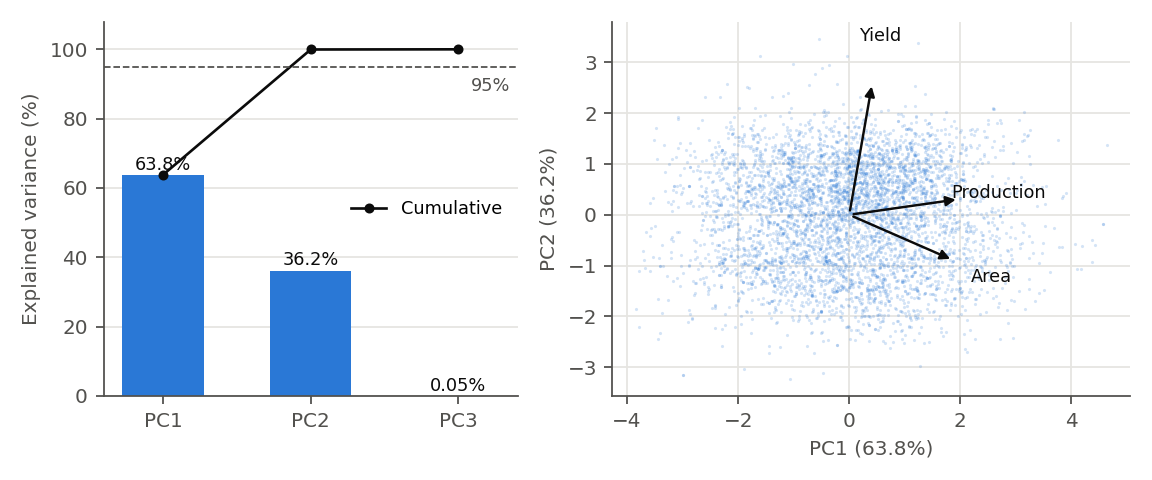
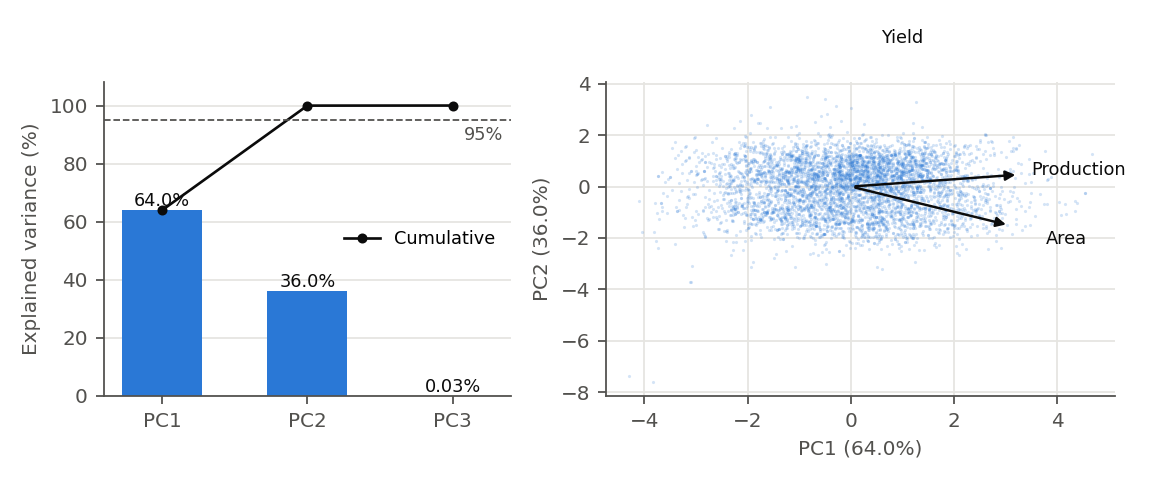
fjernet capping

diff --git a/assignment1/rapport/main.tex b/assignment1/rapport/main.tex
@@ -14,7 +14,7 @@
 }
 
 \title{Assignment 1 - IT3212}
-\author{Group 50 \\ \\ Jesper Hagen, Synne Holmøy, Erlend Skogan, \\ Even Bøifot and Eira Stiksrud Sponheim \\ \\ \\ \\ Word count: 2,963 (text, headings and captions; references excluded)}
+\author{Group 50 \\ \\ Jesper Hagen, Synne Holmøy, Erlend Skogan, \\ Even Bøifot and Eira Stiksrud Sponheim \\ \\ \\ \\ Word count: 2,917}
 \date{}
 
 \setlength{\parindent}{0pt}
@@ -161,11 +161,9 @@ For the partial gaps, we estimated yield because it is independent of country si
 Because the three measurements span very different scales across crops, outliers are detected within each crop (\texttt{Item}) rather than on the column as a whole, otherwise sugar cane would be compared with vanilla. Three methods are compared (Table~\ref{tab:outlier-methods}). The raw IQR rule ($1.5\times$IQR per crop) flags the 13--14\% and 4.5\% already reported in Task 1b. As noted there, most of these are genuine: with mushrooms removed (Task 2), the highest yield is now Dutch greenhouse cucumbers (743 tonnes/ha), a real but different (greenhouse) production system. An ordinary z-score (raw scale, per crop) flags fewer values (1.5--2.2\%) but assumes an approximately symmetric distribution, which these right-skewed measurements do not have. IQR computed on $\log_{10}(x+1)$ flags fewer still (1.3\% for area and production, 2.9\% for yield). That a log transform alone removes most of what the raw IQR rule flags shows that the bulk of it reflects the shape of the distribution, not data errors.
 
 \textbf{b.}
-We transform area, production and yield with $\log_{10}(x+1)$ rather than removing or capping on the raw scale. The comparison above is the justification: since the transform alone cuts the flagged share from 13--14\% to 1.3--2.9\%, correcting the distribution is more accurate than deleting or capping a tenth of the data, most of which is genuine variation (Task 1b). We use $\log_{10}(x+1)$ rather than $\log_{10}(x)$ because 31 rows have production and yield equal to 0, genuine crop failure for which $\log_{10}(0)$ is undefined, while the log1p variant keeps them without distorting the rest. Dropping them was rejected because crop failure is a real event, not an error, and they fall in 17 of the 8,316 series.
+We transform area, production and yield with $\log_{10}(x+1)$ rather than removing or capping them. The comparison above is the justification: since the transform alone cuts the flagged share from 13--14\% to 1.3--2.9\%, correcting the distribution is more accurate than deleting or capping a tenth of the data, most of which is genuine variation (Task 1b). We use $\log_{10}(x+1)$ rather than $\log_{10}(x)$ because 31 rows have production and yield equal to 0, genuine crop failure for which $\log_{10}(0)$ is undefined, while the log1p variant keeps them without distorting the rest. Dropping them was rejected because crop failure is a real event, not an error, and they fall in 17 of the 8,316 series.
 
-The outliers that remain (1.3--2.9\%, by IQR on $\log_{10}$) are extreme relative to their own crop even after the skew is corrected, so capping them changes the fewest values for the largest effect. These are winsorised to the $1.5\times$IQR boundary per crop on the log scale (Figure~\ref{fig:outliers}). This affects 3,986 of 88,735 rows and changes no row, country or crop, unlike Task 2, where deletion was the only option. The \texttt{*\_log10} columns are log-transformed and capped, ready for scaling in Task 4, and \texttt{*\_capped} flags the capped cells, the same pattern as \texttt{imputed} in Task 2.
-
-Three consequences follow. The bounds are computed on the full dataset, so capping leaks in the same limited sense as the imputation in Task 2. Capping each column separately breaks the identity from Task 1a, which is why PC3 in Task 6 is not exactly zero. The lower bound also lifts the 31 crop failure rows off zero and caps 2,575 cells of the target column, which we accept because the flags make both changes reversible.
+The values still flagged after the transform (1.3--2.9\%, by IQR on $\log_{10}$) are kept as well. Three quarters of them lie below the lower bound and belong to very small producers, with a median of 6 ha for area and 12 tonnes for production, so they are the same genuine variation in country size as in Task 1b, not errors. Capping them would also alter the target in 1,132 cells, lift the 31 crop failure rows off zero, which is the reason for choosing $\log_{10}(x+1)$, and require bounds fitted before the split in Task 5. The transform changes no row, country or crop (Figure~\ref{fig:outliers}), and the \texttt{*\_log10} columns are ready for scaling in Task 4.
 
 \begin{table}[H]
     \centering
@@ -185,25 +183,25 @@ Three consequences follow. The bounds are computed on the full dataset, so cappi
 \begin{figure}[H]
     \centering
     \includegraphics[width=\textwidth]{fig3_outliers.png}
-    \caption{Box plots of $\log_{10}(x+1)$, before and after capping the remaining outliers, one panel per measurement.}
+    \caption{The three measurements on the raw scale (top) and after $\log_{10}(x+1)$ (bottom), with the share flagged by IQR per crop on each scale.}
     \label{fig:outliers}
 \end{figure}
 
 \section{Data Transformation}
 
 \textbf{a.}
-The only categorical columns are \texttt{Area} (200 countries) and \texttt{Item} (117 crops); \texttt{Year} is already numeric (Task 1a), and \texttt{imputed} and the \texttt{*\_capped} flags from Tasks 2--3 are boolean indicators, not categories, so neither is encoded here. We use one-hot encoding: each unique value of \texttt{Area} and \texttt{Item} gets its own binary (0/1) column, e.g.\ \texttt{Area\_Afghanistan}, \ldots, \texttt{Item\_Almonds, with shell}, \ldots. This adds 317 columns, 200 for \texttt{Area} and 117 for \texttt{Item}.
+The only categorical columns are \texttt{Area} (200 countries) and \texttt{Item} (117 crops); \texttt{Year} is already numeric (Task 1a), and \texttt{imputed} from Task 2 is a boolean indicator, not a category, so neither is encoded here. We use one-hot encoding: each unique value of \texttt{Area} and \texttt{Item} gets its own binary (0/1) column, e.g.\ \texttt{Area\_Afghanistan}, \ldots, \texttt{Item\_Almonds, with shell}, \ldots. This adds 317 columns, 200 for \texttt{Area} and 117 for \texttt{Item}.
 
 Both columns are nominal categories with no natural ordering, one country or crop is not ``more'' or ``less'' than another, and one-hot encoding is the appropriate choice for exactly that reason. Label encoding (Afghanistan~=~0, Albania~=~1, \ldots) would have implied a rank and a distance that do not exist, and would be particularly damaging for a variance-based method such as PCA, which reads any numeric spread as structure. Task 6 tests this directly: the one-hot columns carry almost no variance, the opposite of what a label-encoded column would have shown.
 
 With 88,735 rows, 317 binary columns is a manageable ratio of rows to features, and a high column count would matter mainly for distance-based methods such as k-nearest neighbours, which we do not use.
 
 \textbf{b.}
-Task 3 corrected the strong right-skew (Task 1b) with $\log_{10}(x+1)$ and capping, but the three log-scaled measurements still span different ranges (roughly 0 to 7.7 for area, 0 to 8.9 for production and 2.6 to 6.7 for yield), and distance- or gradient-based models are sensitive to such differences in scale.
+Task 3 corrected the strong right-skew (Task 1b) with $\log_{10}(x+1)$, but the three log-scaled measurements still span different ranges (roughly 0 to 7.7 for area, 0 to 8.9 for production and 0 to 6.9 for yield), and distance- or gradient-based models are sensitive to such differences in scale.
 
-We use standardisation ($x' = (x-\bar{x})/s$) rather than min-max normalisation. Because Task 3 already pulled in the outliers, the mean and standard deviation are more meaningful measures of spread than the min and max, which would still be anchored to each column's two endpoints and would compress the rest of the data near the middle of $[0,1]$.
+We use standardisation ($x' = (x-\bar{x})/s$) rather than min-max normalisation. Because the log transform in Task 3 made the distributions close to symmetric, the mean and standard deviation are meaningful measures of spread, whereas the min and max would be anchored to the outliers kept in Task 3b, such as the crop failures at zero, and would compress the rest of the data near the middle of $[0,1]$.
 
-The scaling parameters are computed from the training set of Task 5 only (Table~\ref{tab:scaling}) and are then applied to both sets, so the dataset is split before it is scaled, not after. Fitting on the full dataset, or fitting a separate scaler per set, would let the test distribution shape how the training data is represented and give an artificially optimistic picture of generalisation. The training set therefore has mean 0 and standard deviation 1 by construction, while the test set lands close to but not exactly at 0/1 ($-0.005/0.990$ for area), a check that the procedure was done correctly. The one-hot columns, \texttt{Year}, \texttt{imputed} and the \texttt{*\_capped} flags are not scaled, since the one-hot columns and the flags are binary and \texttt{Year} is an ordered count on its own natural scale (Task 1a). Production is standardised with the other two measurements because Task 6 needs all three on a common scale, and a model would be fitted on the standardised features with its predictions transformed back.
+The scaling parameters are computed from the training set of Task 5 only (Table~\ref{tab:scaling}) and are then applied to both sets, so the dataset is split before it is scaled, not after. Fitting on the full dataset, or fitting a separate scaler per set, would let the test distribution shape how the training data is represented and give an artificially optimistic picture of generalisation. The training set therefore has mean 0 and standard deviation 1 by construction, while the test set lands close to but not exactly at 0/1 ($-0.004/0.990$ for area), a check that the procedure was done correctly. The one-hot columns, \texttt{Year} and \texttt{imputed} are not scaled, since the one-hot columns and the flag are binary and \texttt{Year} is an ordered count on its own natural scale (Task 1a). Production is standardised with the other two measurements because Task 6 needs all three on a common scale, and a model would be fitted on the standardised features with its predictions transformed back.
 
 Scaling changes no information in the data, only its representation, but it changes how a model uses it. A linear model fitted on unscaled columns gives coefficients in units that cannot be compared, and gradient descent converges slowly when one column is orders of magnitude wider than another. With standardised inputs the coefficients are comparable in standard deviations, regularisation penalises every column equally, and PCA in Task 6 finds the directions of largest variance rather than the column with the largest unit.
 
@@ -213,9 +211,9 @@ Scaling changes no information in the data, only its representation, but it chan
         \toprule
         Column & Mean & Std. dev. \\
         \midrule
-        \texttt{area\_harvested\_ha\_log10} & 3.567 & 1.246 \\
-        \texttt{production\_tonnes\_log10} & 4.283 & 1.310 \\
-        \texttt{yield\_hg\_per\_ha\_log10} & 4.722 & 0.585 \\
+        \texttt{area\_harvested\_ha\_log10} & 3.564 & 1.256 \\
+        \texttt{production\_tonnes\_log10} & 4.279 & 1.322 \\
+        \texttt{yield\_hg\_per\_ha\_log10} & 4.717 & 0.600 \\
         \bottomrule
     \end{tabular}
     \caption{Standardisation parameters for the log-scaled measurements, computed on the training set only.}
@@ -236,11 +234,11 @@ Splitting the data lets the model be evaluated on rows it has not seen during tr
 
 \textit{Method.} We use PCA rather than LDA because the dataset has no classes and LDA requires class labels. PCA is unsupervised, finds the directions of largest variance and is linear, so we use the log-transformed, standardised measurements from Tasks 3 and 4b, where the identity from Task 1a becomes the approximately linear relationship $\log(\mathit{yield}) \approx \log(\mathit{production}) - \log(\mathit{area}) + 4$. The main run covers all three measurements, and not only the feature set from the introduction, because its purpose is to quantify their redundancy rather than to build features; the one-hot columns (Task 4a) are tested separately below. The data were centred in Task 4b, and PCA is fitted on the training set and applied unchanged to the test set, as with the scaling.
 
-\textit{Results.} Area and production are strongly correlated ($r = 0.89$). The first two components explain 99.95\% of the variance (Table~\ref{tab:pca}), so we keep two components under a 95\% threshold, and the Kaiser criterion (eigenvalue $> 1$) gives the same. PC1 weights area and production and describes the scale of cultivation, while PC2 is dominated by yield and describes productivity (Figure~\ref{fig:pca}). PC3 is the combination production $-$ area $-$ yield, i.e.\ the relationship between the measurements itself, and has almost no variance. It is not exactly zero, for the reason given in Task 3b.
+\textit{Results.} Area and production are strongly correlated ($r = 0.90$). The first two components explain 99.97\% of the variance (Table~\ref{tab:pca}), so we keep two components under a 95\% threshold, and the Kaiser criterion (eigenvalue $> 1$) gives the same. PC1 weights area and production and describes the scale of cultivation, while PC2 is dominated by yield and describes productivity (Figure~\ref{fig:pca}). PC3 is the combination production $-$ area $-$ yield, i.e.\ the relationship between the measurements itself, and has almost no variance. It is not exactly zero because the $+1$ in $\log_{10}(x+1)$ makes the relationship only approximately linear for the smallest values.
 
-\textit{The one-hot columns.} The dataset has 328 columns after Task 4a, so we also tested including the 317 one-hot columns. They do not compress: 213 of 320 components are needed to reach 95\%, against two of three without them, because each column has a variance of only 0.006 and the columns within \texttt{Area} and \texttt{Item} are mutually exclusive. PC1 and PC2 barely change, keeping 99.8\% and 99.2\% of their weight on the measurements, so we run PCA on the measurements alone.
+\textit{The one-hot columns.} The dataset has 325 columns after Task 4a, so we also tested including the 317 one-hot columns. They do not compress: 213 of 320 components are needed to reach 95\%, against two of three without them, because each column has a variance of only 0.006 and the columns within \texttt{Area} and \texttt{Item} are mutually exclusive. PC1 and PC2 barely change, keeping 99.8\% and 99.2\% of their weight on the measurements, so we run PCA on the measurements alone.
 
-\textit{Effect on the dataset.} The dataset goes from three to two uncorrelated columns, and reconstructing the measurements from them loses only 0.05\% of the variance on the training set and 0.06\% on the test set, so the projection holds on unseen data. The gain is nevertheless small: dropping yield, which can almost be computed from the other two ($R^2 = 0.98$), loses 0.5--0.6\% and keeps columns that are easy to interpret. PCA thus confirms on the data what Task 1a stated from the definition, that the three measurements carry two independent quantities, and it supports leaving yield out of the feature set.
+\textit{Effect on the dataset.} The dataset goes from three to two uncorrelated columns, and reconstructing the measurements from them loses only 0.03\% of the variance on the training set and 0.06\% on the test set, so the projection holds on unseen data. The gain is nevertheless small: dropping yield, which can almost be computed from the other two ($R^2 = 0.98$), loses 0.3--0.6\% and keeps columns that are easy to interpret. PCA thus confirms on the data what Task 1a stated from the definition, that the three measurements carry two independent quantities, and it supports leaving yield out of the feature set.
 
 \begin{table}[H]
     \centering
@@ -248,9 +246,9 @@ Splitting the data lets the model be evaluated on rows it has not seen during tr
         \toprule
         Component & Eigenvalue & Explained (\%) & Cumulative (\%) & Area & Production & Yield \\
         \midrule
-        PC1 & 1.914 & 63.79 & 63.79 & 0.680 & 0.718 & 0.150 \\
-        PC2 & 1.085 & 36.16 & 99.95 & $-0.325$ & 0.112 & 0.939 \\
-        PC3 & 0.001 & 0.05 & 100.00 & $-0.657$ & 0.687 & $-0.309$ \\
+        PC1 & 1.919 & 63.95 & 63.95 & 0.677 & 0.718 & 0.162 \\
+        PC2 & 1.081 & 36.02 & 99.97 & $-0.333$ & 0.103 & 0.937 \\
+        PC3 & 0.001 & 0.03 & 100.00 & $-0.656$ & 0.689 & $-0.308$ \\
         \bottomrule
     \end{tabular}
     \caption{Eigenvalues, explained variance and eigenvectors (fitted on the training set).}

diff --git a/assignment1/src/3_outliers.py b/assignment1/src/3_outliers.py
@@ -3,12 +3,13 @@
   C1  Detekter per vekst (Item), tre metoder til sammenligning:
       rå IQR, IQR på log10(x+1), og z-score (rå skala)
   C2  Avgjørelse: log10(x+1)-transformer alle tre målinger (log1p-varianten
-      håndterer de 31 radene med produksjon = avling = 0), og cap
-      (winsoriser) de gjenværende outlierne på log-skala med IQR per vekst
+      håndterer de 31 radene med produksjon = avling = 0). Ingenting fjernes
+      eller cappes
 
 Outliers er stort sett ekte (tunghalede fordelinger, jf. oppgave 1b), så ingen
-rader slettes her. Kolonnene *_log10 er log-transformert og klare til skalering
-i oppgave 4; *_capped markerer cappede celler (samme mønster som `imputed`).
+rader slettes her. De som fortsatt flagges etter log-transformen er for det
+meste små produsenter på nedsiden, og også de er ekte. Kolonnene *_log10 er
+log-transformert og klare til skalering i oppgave 4.
 Inn: food-bank/crop1_clean.csv  ->  Ut: food-bank/crop1_outliers.csv,
      assignment1/rapport/figurer/fig3_outliers.png
 Kjør: python assignment1/src/3_outliers.py
@@ -78,50 +79,50 @@ print(f"\nStørste avling nå (sopp fjernet i oppgave 2):\n{top.to_string(index=
 # ================================== 3b ======================================
 # At IQR på log10 flagger MYE færre (1.3-2.9 %) enn rå IQR (13-14 %/4.5 %)
 # viser at det meste av det rå IQR flagger, skyldes formen på fordelingen
-# (skjevhet), ikke feil i dataene -> vi transformerer fremfor å fjerne/cappe
-# på rå skala, og capper bare det som fortsatt stikker seg ut etterpå.
-section("3b  Avgjørelse: log10(x+1)-transformer, cap gjenværende outliers på log-skala")
+# (skjevhet), ikke feil i dataene -> vi transformerer. Det som fortsatt
+# flagges etterpå, er for det meste små produsenter på nedsiden, og beholdes.
+section("3b  Avgjørelse: log10(x+1)-transformer, behold gjenværende outliers")
 
 LOG = {c: f"{c}_log10" for c in NUM}
 for c in NUM:
     df[LOG[c]] = np.log10(df[c] + 1)
 
-cap_stats = []
+rest = []
 for c in NUM:
     lc = LOG[c]
     q1 = df.groupby("Item")[lc].transform(lambda g: g.quantile(0.25))
     q3 = df.groupby("Item")[lc].transform(lambda g: g.quantile(0.75))
     iqr = q3 - q1
-    lo, hi = q1 - 1.5 * iqr, q3 + 1.5 * iqr
-    flag = (df[lc] < lo) | (df[lc] > hi)
-    df[lc] = df[lc].clip(lower=lo, upper=hi)
-    df[f"{c}_capped"] = flag
-    cap_stats.append({"kolonne": c, "cappet_celler": int(flag.sum()),
-                       "cappet_%": round(flag.mean() * 100, 1)})
-
-print(pd.DataFrame(cap_stats).to_string(index=False))
-any_capped = df[[f"{c}_capped" for c in NUM]].any(axis=1)
-print(f"\nRader med >=1 cappet verdi: {any_capped.sum():,} ({any_capped.mean() * 100:.1f} %)")
+    low, high = df[lc] < q1 - 1.5 * iqr, df[lc] > q3 + 1.5 * iqr
+    rest.append({"kolonne": c, "flagget": int((low | high).sum()), "nedside": int(low.sum()),
+                 "overside": int(high.sum()), "median_rå_nedside": df.loc[low, c].median()})
+print("Gjenværende outliers etter log10(x+1) (IQR per vekst), beholdes:")
+print(pd.DataFrame(rest).to_string(index=False))
+print(f"\nSkjevhet før -> etter log10(x+1): " + ", ".join(
+    f"{c} {df[c].skew():.1f} -> {df[LOG[c]].skew():.2f}" for c in NUM))
 print(f"Rader/land/vekster uendret: {len(df):,} rader, {df['Area'].nunique()} land, {df['Item'].nunique()} vekster")
 
 df.to_csv(OUTLIERS, index=False)
 
 # ================================ Figur 3 ===================================
-fig, axes = plt.subplots(1, 3, figsize=(7.2, 2.8))
-clean_raw = read(CLEAN)
-for ax, c in zip(axes, NUM):
-    before = np.log10(clean_raw[c] + 1)
-    after = df[LOG[c]]
-    ax.boxplot([before, after], widths=0.5, patch_artist=True, tick_labels=["before", "after"],
-               boxprops=dict(facecolor="#cde2fb", edgecolor=BLUE, linewidth=1.2),
-               medianprops=dict(color=BLUE, linewidth=2), whiskerprops=dict(color=BLUE),
-               capprops=dict(color=BLUE),
-               flierprops=dict(marker="o", markersize=2, markerfacecolor=INK2,
-                               markeredgewidth=0, alpha=0.25))
-    ax.set_title(FIG_LABEL[c], color=INK, fontsize=9)
-    ax.grid(axis="y", color=GRID, linewidth=0.8, which="major")
-    ax.set_axisbelow(True)
-fig.suptitle("log10(x+1), before vs. after capping remaining outliers", color=INK, fontsize=9)
+# Samme måling på rå skala (øverst) og etter log10(x+1) (nederst), med andelen
+# IQR per vekst flagger på hver skala (fra Tabell 6).
+share = {r["kolonne"]: r for r in rows}
+fig, axes = plt.subplots(2, 3, figsize=(7.2, 4.2))
+for j, c in enumerate(NUM):
+    for i, (vals, key, label) in enumerate([(df[c], "IQR (rå), %", "raw"),
+                                            (df[LOG[c]], "IQR (log10), %", "log10(x+1)")]):
+        ax = axes[i, j]
+        ax.hist(vals, bins=60, color=BLUE, edgecolor="none")
+        ax.set_ylim(0, ax.get_ylim()[1] * 1.2)  # plass til teksten over søylene
+        ax.set_title(f"{FIG_LABEL[c]}, {label}", color=INK, fontsize=8)
+        ax.text(0.97, 0.9, f"{share[c][key]}% flagged", transform=ax.transAxes,
+                ha="right", color=INK2, fontsize=8)
+        ax.ticklabel_format(axis="x", style="sci", scilimits=(-3, 4))
+        ax.grid(axis="y", color=GRID, linewidth=0.8)
+        ax.set_axisbelow(True)
+    axes[0, j].set_ylabel("Rows" if j == 0 else "")
+    axes[1, j].set_ylabel("Rows" if j == 0 else "")
 fig.tight_layout()
 fig.savefig(FIG / "fig3_outliers.png")
 plt.close(fig)

diff --git a/assignment1/src/4b_scaling.py b/assignment1/src/4b_scaling.py
@@ -1,16 +1,16 @@
 """Oppgave 4b - skalering (standardisering) av de numeriske kolonnene.
 
 Standardisering (Z-score, x' = (x - gjennomsnitt) / std) er valgt fremfor
-min-max. Oppgave 3 log10-transformerte og cappet de tre målingene, noe som
-gjorde fordelingene tilnærmet symmetriske - da gir gjennomsnitt/std mer
-mening enn min/maks, som fortsatt ville vært styrt av de ytterpunktene
-(cappet, men ikke fjernet) som ligger igjen i dataene.
+min-max. Oppgave 3 log10-transformerte de tre målingene, noe som gjorde
+fordelingene tilnærmet symmetriske - da gir gjennomsnitt/std mer mening enn
+min/maks, som ville vært styrt av de ytterpunktene (beholdt, ikke cappet) som
+ligger igjen i dataene.
 
 Det er *_log10-kolonnene fra oppgave 3 som skaleres (area_harvested_ha_log10,
 production_tonnes_log10, yield_hg_per_ha_log10) - det er disse som faktisk
 skal brukes videre, ikke de rå målingene. One-hot-kolonnene for Area/Item
-(oppgave 4a), Year, imputed og *_capped skaleres ikke: one-hot-kolonnene og
-flaggene er binære, og Year er en ordnet telling på sin egen skala (oppgave 1a).
+(oppgave 4a), Year og imputed skaleres ikke: one-hot-kolonnene og
+flagget er binære, og Year er en ordnet telling på sin egen skala (oppgave 1a).
 
 Kjøres ETTER splitting (oppgave 5), ikke før, for å unngå datalekkasje:
 StandardScaler fittes KUN på treningssettet (fit_transform), og de samme

diff --git a/assignment1/src/4_encoding.py b/assignment1/src/4_encoding.py
@@ -10,11 +10,10 @@ meningsløs struktur å fange opp. Kostnaden er antall kolonner: 200 unike land
 og 117 unike vekster gir til sammen 317 nye binære kolonner.
 
 Bygger videre på oppgave 3 (crop1_outliers.csv), som la til *_log10 (log-
-transformerte målinger, klare til skalering i 4b) og *_capped (flagg for
-cappede celler, samme rolle som `imputed`). Disse kolonnene røres ikke her -
-de følger bare med videre uendret. Year holdes numerisk (som i oppgave 1) og
-encodes ikke. `imputed` og *_capped er flagg, ikke kategorier, og encodes
-heller ikke.
+transformerte målinger, klare til skalering i 4b). Disse kolonnene røres ikke
+her - de følger bare med videre uendret. Year holdes numerisk (som i oppgave 1)
+og encodes ikke. `imputed` er et flagg, ikke en kategori, og encodes heller
+ikke.
 
 Inn: food-bank/crop1_outliers.csv  ->  Ut: food-bank/crop1_encoded.csv
 Kjør: python assignment1/src/4_encoding.py

diff --git a/assignment1/src/6_pca.py b/assignment1/src/6_pca.py
@@ -28,7 +28,7 @@ from sklearn.linear_model import LinearRegression
 from felles import DATA, FIGURES as FIG, KEYS, NUM, A, P, Y, read
 
 SCALED = [f"{c}_scaled" for c in NUM]
-FLAGS = ["imputed"] + [f"{c}_capped" for c in NUM]
+FLAGS = ["imputed"]
 SHORT = {A: "Area", P: "Production", Y: "Yield"}
 THRESHOLD = 0.95
 BLUE, INK, INK2, GRID = "#2a78d6", "#0b0b0b", "#52514e", "#e6e5e1"

diff --git a/assignment1/rapport/3-outliers.md b/assignment1/rapport/3-outliers.md
@@ -7,14 +7,9 @@
 Fordi de tre målingene spenner over helt ulike skalaer fra vekst til vekst, detekteres outliers per vekst (`Item`), ikke på hele kolonnen samlet – ellers ville man sammenlignet f.eks. sukkerrør med vanilje. Tre metoder ble sammenlignet (Tabell 6). Rå IQR (1,5·IQR per vekst) flagger 13,1–13,9 % av areal og produksjon og 4,5 % av avling – tallene som allerede er oppgitt i oppgave 1b. Som der ble påpekt, er de fleste av disse ekte: Nederlandske veksthusagurker har nå den høyeste avlingen (743 tonn/ha) siden sopp er fjernet i oppgave 2, og er et reelt, men annet produksjonssystem (veksthus) enn friland. En vanlig z-score (rå skala, per vekst) flagger færre (1,5–2,2 %), men forutsetter en noenlunde symmetrisk fordeling, noe disse høyreskjeve målingene ikke har. IQR beregnet på log10(x+1) flagger enda færre (1,3 % for areal og produksjon, 2,9 % for avling). At andelen faller så mye ved en log-transformasjon, viser at det meste av det rå IQR-metoden flagger, er en konsekvens av skjevheten i fordelingen – ikke feil i dataene.
 
 **b.**
-Vi transformerer areal, produksjon og avling med log10(x+1) fremfor å fjerne eller cappe på rå skala. Begrunnelsen er tabellen over: siden log-transformasjonen alene reduserer andelen flagget fra 13–14 % til 1,3–2,9 %, er en generell transformasjon mer treffsikkert enn å fjerne eller cappe en tidels av dataene, som i stor grad er ekte variasjon (jf. oppgave 1b). Vi brukte log10(x+1) fremfor log10(x) fordi 31 rader har produksjon og avling lik 0 (reell avlingssvikt, areal er alltid > 0 for disse); log10(0) er udefinert, mens log1p-varianten gir disse radene verdien 0 uten å forvrenge de øvrige verdiene merkbart. Alternativet, å utelate radene, ble forkastet fordi avlingssvikt er en ekte hendelse og ikke en feil, og radene fordeler seg på 17 av de 8 316 seriene.
+Vi transformerer areal, produksjon og avling med log10(x+1) fremfor å fjerne eller cappe dem. Begrunnelsen er tabellen over: siden log-transformasjonen alene reduserer andelen flagget fra 13–14 % til 1,3–2,9 %, er en generell transformasjon mer treffsikkert enn å fjerne eller cappe en tidels av dataene, som i stor grad er ekte variasjon (jf. oppgave 1b). Vi brukte log10(x+1) fremfor log10(x) fordi 31 rader har produksjon og avling lik 0 (reell avlingssvikt, areal er alltid > 0 for disse); log10(0) er udefinert, mens log1p-varianten gir disse radene verdien 0 uten å forvrenge de øvrige verdiene merkbart. Alternativet, å utelate radene, ble forkastet fordi avlingssvikt er en ekte hendelse og ikke en feil, og radene fordeler seg på 17 av de 8 316 seriene.
 
-De resterende outlierne etter transformasjonen (1,3–2,9 %, jf. IQR på log10) er ekstreme i forhold til sin egen vekst selv etter at skjevheten er rettet, så capping av dem endrer færrest verdier for størst effekt. Disse cappes (winsoriseres) til 1,5·IQR-grensen per vekst på log-skala. Dette berører 1,3–2,9 % av cellene (3 986 av 88 735 rader har minst én cappet verdi) og endrer ingen rad, land eller vekst – i motsetning til oppgave 2, hvor sletting var eneste utvei for verdier som ikke kunne anslås. Kolonnene `area_harvested_ha_log10`, `production_tonnes_log10` og `yield_hg_per_ha_log10` er log-transformert og cappet, klare til skalering i oppgave 4 (i tråd med notatet om at skalering bør skje etter log), og `*_capped` markerer de cappede cellene – samme mønster som `imputed` i oppgave 2. De opprinnelige, ucappede kolonnene beholdes uendret for etterprøvbarhet.
-
-**Tre konsekvenser, som alle er skrevet inn i rapporten (oppgave 3b):**
-1. Grensene er beregnet på hele datasettet, så cappingen lekker i samme begrensede forstand som imputeringen i oppgave 2.
-2. Capping per kolonne bryter identiteten fra oppgave 1a, og det er grunnen til at PC3 i oppgave 6 ikke er nøyaktig null.
-3. Den nedre grensen løfter også de 31 avlingssvikt-radene av 0 og capper 2 575 celler i målkolonnen. Vi aksepterer det fordi flaggene gjør begge endringene reversible. Merk at 3 705 av 4 867 cappede celler blir *hevet*, ikke senket.
+Verdiene som fortsatt flagges etter transformasjonen (1,3–2,9 %, jf. IQR på log10), beholdes også. Tre fjerdedeler av dem ligger under den nedre grensen og tilhører svært små produsenter, med median 6 ha for areal og 12 tonn for produksjon, så de er den samme ekte variasjonen i landstørrelse som i oppgave 1b, ikke feil. Å cappe dem ville også endret målet i 1 132 celler, løftet de 31 avlingssvikt-radene av 0, som er selve grunnen til å velge log10(x+1), og krevd grenser beregnet før splittingen i oppgave 5. Transformasjonen endrer ingen rad, land eller vekst (Figur 2), og kolonnene `area_harvested_ha_log10`, `production_tonnes_log10` og `yield_hg_per_ha_log10` er klare til skalering i oppgave 4. De opprinnelige kolonnene beholdes uendret for etterprøvbarhet.
 
 **Tabell 6: Andel flagget per vekst, tre metoder.**
 
@@ -24,4 +19,4 @@ De resterende outlierne etter transformasjonen (1,3–2,9 %, jf. IQR på log10) 
 | production_tonnes | 13,9 | 1,3 | 2,1 |
 | yield_hg_per_ha | 4,5 | 2,9 | 1,5 |
 
-**Figur 2 (rapportens Figure 2):** Boksplott av log10(x+1) før og etter capping av gjenværende outliers, én rute per måling. Etikettene er engelske («before», «after») etter rettelsen i `3_outliers.py`. Figuren er henvist til i teksten i 3b.
+**Figur 2 (rapportens Figure 2):** De tre målingene på rå skala (øverst) og etter log10(x+1) (nederst), med andelen IQR per vekst flagger på hver skala. Figuren er henvist til i teksten i 3b.

diff --git a/assignment1/rapport/6-pca.md b/assignment1/rapport/6-pca.md
@@ -5,19 +5,19 @@
 
 *Metode.* Vi valgte PCA fremfor LDA fordi datasettet ikke har klasser. PCA er unsupervised og finner retningene med størst varians, mens LDA krever klasseetiketter. PCA er også lineær. Vi brukte derfor de log-transformerte og standardiserte målingene fra oppgave 3 og 4b, der avling = produksjon × 10 000 / areal blir en tilnærmet lineær sammenheng: log(avling) ≈ log(produksjon) − log(areal) + 4. Hovedkjøringen dekker alle tre målingene, og ikke bare featuresettet fra innledningen, fordi formålet er å tallfeste redundansen mellom dem og ikke å bygge features til modellen. One-hot-kolonnene (oppgave 4a) er testet separat nedenfor. Dataene ble sentrert i 4b, og PCA ble tilpasset på treningssettet og brukt uendret på testsettet, som skaleringen.
 
-*Resultat.* Areal og produksjon er sterkt korrelert (r = 0,89). De to første komponentene forklarer 99,95 % av variansen (Tabell 7), så vi beholdt to komponenter etter kravet om minst 95 %. Kaiser-kriteriet (egenverdi > 1) gir det samme. PC1 vekter areal og produksjon og beskriver hvor stor dyrkingen er, mens PC2 domineres av avling og beskriver produktiviteten (Figur 4). PC3 er kombinasjonen produksjon − areal − avling, altså selve sammenhengen mellom målingene, og har nesten ingen varians. Den er ikke nøyaktig null, av grunnen som er gitt i oppgave 3b.
+*Resultat.* Areal og produksjon er sterkt korrelert (r = 0,90). De to første komponentene forklarer 99,97 % av variansen (Tabell 7), så vi beholdt to komponenter etter kravet om minst 95 %. Kaiser-kriteriet (egenverdi > 1) gir det samme. PC1 vekter areal og produksjon og beskriver hvor stor dyrkingen er, mens PC2 domineres av avling og beskriver produktiviteten (Figur 4). PC3 er kombinasjonen produksjon − areal − avling, altså selve sammenhengen mellom målingene, og har nesten ingen varians. Den er ikke nøyaktig null fordi +1 i log10(x+1) gjør sammenhengen bare tilnærmet lineær for de minste verdiene.
 
-*One-hot-kolonnene.* Datasettet har 328 kolonner etter oppgave 4a, så vi testet også å ta de 317 one-hot-kolonnene med som input. De lar seg ikke komprimere. Med dem trengs 213 av 320 komponenter for å nå 95 %, mot to av tre uten, fordi hver kolonne bare har varians 0,006 og kolonnene innenfor `Area` og `Item` utelukker hverandre, så det finnes lite korrelasjon å samle. PC1 og PC2 endrer seg nesten ikke, 99,8 % og 99,2 % av vekten deres ligger fortsatt på målingene, og egenvektorene er de samme som i Tabell 7. Vi kjører derfor PCA på målingene alene.
+*One-hot-kolonnene.* Datasettet har 325 kolonner etter oppgave 4a, så vi testet også å ta de 317 one-hot-kolonnene med som input. De lar seg ikke komprimere. Med dem trengs 213 av 320 komponenter for å nå 95 %, mot to av tre uten, fordi hver kolonne bare har varians 0,006 og kolonnene innenfor `Area` og `Item` utelukker hverandre, så det finnes lite korrelasjon å samle. PC1 og PC2 endrer seg nesten ikke, 99,8 % og 99,2 % av vekten deres ligger fortsatt på målingene, og egenvektorene er de samme som i Tabell 7. Vi kjører derfor PCA på målingene alene.
 
-*Effekt på datasettet.* Datasettet går fra tre til to numeriske kolonner, og komponentene er ukorrelerte. Rekonstrueres målingene fra de to komponentene, er feilen 0,05 % av variansen i treningssettet og 0,06 % i testsettet, så nesten ingen informasjon går tapt, og projeksjonen holder på usette data. Gevinsten er likevel liten. Å bare fjerne avling, som nesten kan regnes ut fra de to andre målingene (R² = 0,98), gir et tap på 0,5–0,6 % og beholder kolonner som er lette å tolke. PCA bekrefter dermed på dataene det oppgave 1a slo fast ut fra definisjonen, at de tre målingene bærer to uavhengige størrelser, og støtter valget om å holde avling utenfor featuresettet. Med bare tre målinger koster komponentene likevel mer i tolkbarhet enn de sparer.
+*Effekt på datasettet.* Datasettet går fra tre til to numeriske kolonner, og komponentene er ukorrelerte. Rekonstrueres målingene fra de to komponentene, er feilen 0,03 % av variansen i treningssettet og 0,06 % i testsettet, så nesten ingen informasjon går tapt, og projeksjonen holder på usette data. Gevinsten er likevel liten. Å bare fjerne avling, som nesten kan regnes ut fra de to andre målingene (R² = 0,98), gir et tap på 0,3–0,6 % og beholder kolonner som er lette å tolke. PCA bekrefter dermed på dataene det oppgave 1a slo fast ut fra definisjonen, at de tre målingene bærer to uavhengige størrelser, og støtter valget om å holde avling utenfor featuresettet. Med bare tre målinger koster komponentene likevel mer i tolkbarhet enn de sparer.
 
 **Tabell 7: Egenverdier, forklart varians og egenvektorer (tilpasset på treningssettet).**
 
 | Komponent | Egenverdi | Forklart varians (%) | Kumulativ (%) | Areal | Produksjon | Avling |
 |---|---:|---:|---:|---:|---:|---:|
-| PC1 | 1,914 | 63,79 | 63,79 | 0,680 | 0,718 | 0,150 |
-| PC2 | 1,085 | 36,16 | 99,95 | −0,325 | 0,112 | 0,939 |
-| PC3 | 0,001 | 0,05 | 100,00 | −0,657 | 0,687 | −0,309 |
+| PC1 | 1,919 | 63,95 | 63,95 | 0,677 | 0,718 | 0,162 |
+| PC2 | 1,081 | 36,02 | 99,97 | −0,333 | 0,103 | 0,937 |
+| PC3 | 0,001 | 0,03 | 100,00 | −0,656 | 0,689 | −0,308 |
 
 ![Figur 4](figurer/fig4_pca.png)
 

diff --git a/assignment1/rapport/4-transformation.md b/assignment1/rapport/4-transformation.md
@@ -5,8 +5,8 @@
 
 **a. Encoding.**
 De eneste kategoriske kolonnene er `Area` (200 land) og `Item` (117 vekster). `Year` er allerede
-numerisk (oppgave 1a), og `imputed` og `*_capped` er boolske flagg og ikke kategorier, så ingen av
-dem encodes. Vi bruker one-hot encoding, der hver unike verdi får sin egen binære kolonne. Det gir
+numerisk (oppgave 1a), og `imputed` er et boolsk flagg og ikke en kategori, så ingen av dem
+encodes. Vi bruker one-hot encoding, der hver unike verdi får sin egen binære kolonne. Det gir
 317 nye kolonner, 200 for `Area` og 117 for `Item`.
 
 Begge kolonnene er nominelle kategorier uten naturlig rekkefølge, ett land eller én vekst er ikke
@@ -19,21 +19,22 @@ forhold mellom rader og features, og et høyt kolonnetall ville først og fremst
 avstandsbaserte metoder som k-NN, som vi ikke bruker.
 
 **b. Skalering.**
-Oppgave 3 rettet den sterke høyreskjevheten med log10(x+1) og capping, men de tre log-skalerte
-målingene spenner fortsatt ulike områder (omtrent 0–7,7 for areal, 0–8,9 for produksjon og 2,6–6,7
+Oppgave 3 rettet den sterke høyreskjevheten med log10(x+1), men de tre log-skalerte
+målingene spenner fortsatt ulike områder (omtrent 0–7,7 for areal, 0–8,9 for produksjon og 0–6,9
 for avling), og avstands- eller gradientbaserte modeller er følsomme for slike forskjeller.
 
-Vi bruker standardisering (x' = (x − gjennomsnitt) / std) fremfor min-max. Fordi oppgave 3 allerede
-har trukket inn uteliggerne, er gjennomsnitt og standardavvik mer meningsfulle mål på spredning enn
-min og maks, som fortsatt ville vært styrt av de to ytterpunktene i hver kolonne.
+Vi bruker standardisering (x' = (x − gjennomsnitt) / std) fremfor min-max. Fordi log-transformasjonen
+i oppgave 3 gjorde fordelingene tilnærmet symmetriske, er gjennomsnitt og standardavvik meningsfulle
+mål på spredning, mens min og maks ville vært styrt av uteliggerne som ble beholdt i 3b, for
+eksempel avlingssviktene på 0.
 
 Skaleringsparametrene beregnes bare på treningssettet fra oppgave 5 og brukes deretter på begge
 settene, så datasettet splittes før det skaleres, ikke etter. Å fitte på hele datasettet, eller å
 fitte én scaler per sett, ville latt testfordelingen påvirke representasjonen av treningsdataene.
 Treningssettet får dermed gjennomsnitt 0 og standardavvik 1 per konstruksjon, mens testsettet lander
-nær, men ikke nøyaktig på, 0/1 (−0,005/0,990 for areal), som er en kontroll på at framgangsmåten er
-riktig. One-hot-kolonnene, `Year`, `imputed` og `*_capped` skaleres ikke, fordi one-hot-kolonnene og
-flaggene er binære og `Year` er en ordnet telling på sin egen naturlige skala (oppgave 1a).
+nær, men ikke nøyaktig på, 0/1 (−0,004/0,990 for areal), som er en kontroll på at framgangsmåten er
+riktig. One-hot-kolonnene, `Year` og `imputed` skaleres ikke, fordi one-hot-kolonnene og
+flagget er binære og `Year` er en ordnet telling på sin egen naturlige skala (oppgave 1a).
 **Produksjon standardiseres sammen med de to andre målingene** fordi oppgave 6 trenger alle tre på
 felles skala, og en modell ville blitt tilpasset på de standardiserte featurene med prediksjonene
 transformert tilbake.
@@ -49,6 +50,6 @@ retningene med størst varians i stedet for kolonnen med størst enhet.
 
 | Kolonne | Gjennomsnitt | Std.avvik |
 |---|---:|---:|
-| area_harvested_ha_log10 | 3,567 | 1,246 |
-| production_tonnes_log10 | 4,283 | 1,310 |
-| yield_hg_per_ha_log10 | 4,722 | 0,585 |
+| area_harvested_ha_log10 | 3,564 | 1,256 |
+| production_tonnes_log10 | 4,279 | 1,322 |
+| yield_hg_per_ha_log10 | 4,717 | 0,600 |

diff --git a/assignment1/README.md b/assignment1/README.md
@@ -114,12 +114,12 @@ Målt med Overleafs egen teller (texcount) på `main.tex`:
 
 | Post | Ord |
 |---|---|
-| Brødtekst | 2 826 |
-| Bildetekster (11 stykker) | 144 |
+| Brødtekst | 2 772 |
+| Bildetekster (11 stykker) | 152 |
 | Seksjonsoverskrifter | 16 |
-| **Sum** | **2 986** |
+| **Sum** | **2 940** |
 | Minus referanselisten, som ikke teller | −23 |
-| **Oppgitt på forsiden** | **2 963** |
+| **Oppgitt på forsiden** | **2 917** |
 
 Tallet hentes med `GET /project/<id>/wordcount?file=main.tex` i Overleaf, eller fra menyen.
 Legger du til tekst, må du hente ut like mye et annet sted.
